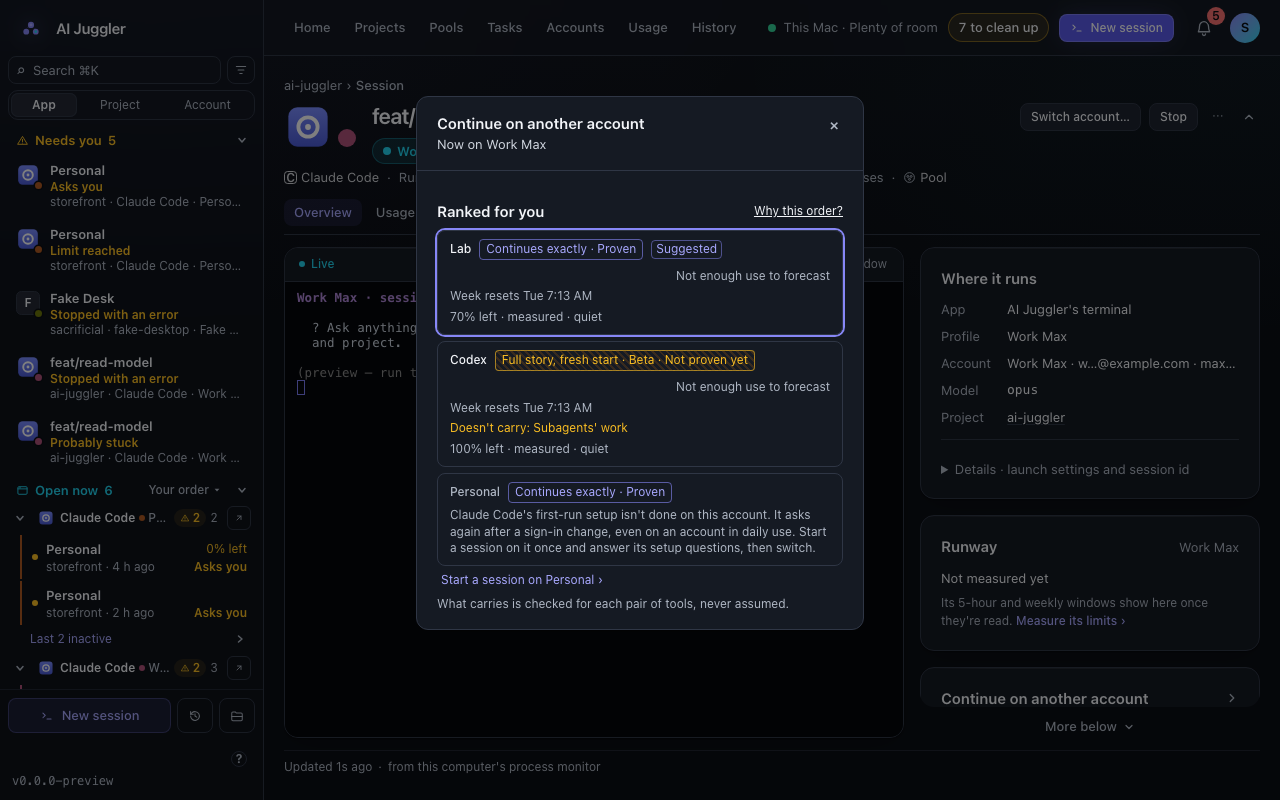
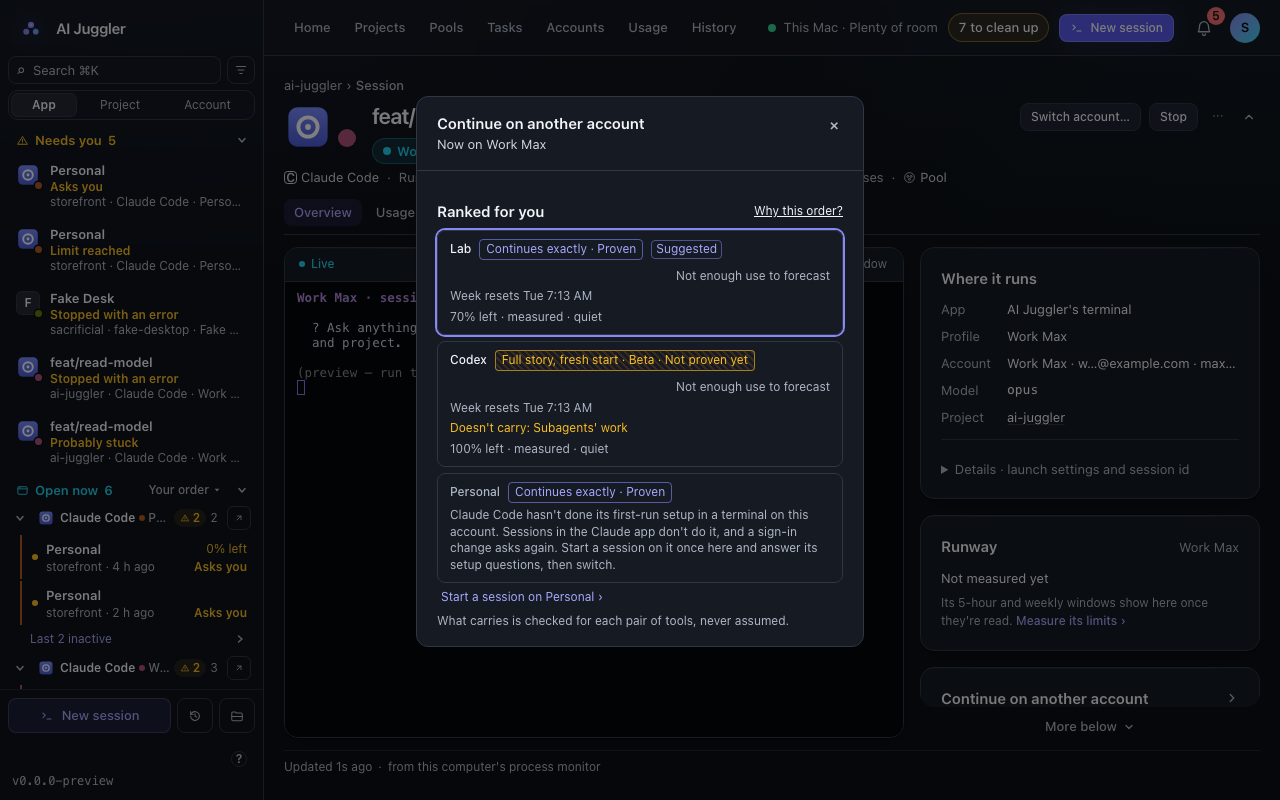
docs(0.3.4): notes and walk for D-64 and the switch fix; the setup words name the Claude app
The walk on real data found why the maintainer's accounts read "not set
up": they're used every day through the Claude app's Code tab, which runs
Claude Code without its terminal first run, so a switch into the terminal
would open on its setup questions. The words now say so. Release notes,
CHANGELOG and the walk record cover D-64's inactive apps and the switch
fix; switch-setup re-captured and its critique restamped.

Changed region(s): [[0.3125, 0.625, 0.6875, 0.8125]]

diff --git a/ui/src/components/switch-room.test.tsx b/ui/src/components/switch-room.test.tsx
@@ -103,7 +103,7 @@ describe("0.3.4 a switch: same tool first, never a target it would refuse", () =
   });
 
   it("a target whose setup isn't done is held back, never Suggested, with a way to finish it", async () => {
-    const words = "Claude Code's first-run setup isn't done on this account. It asks again after a sign-in change, even on an account in daily use. Start a session on it once and answer its setup questions, then switch.";
+    const words = "Claude Code hasn't done its first-run setup in a terminal on this account. Sessions in the Claude app don't do it, and a sign-in change asks again. Start a session on it once here and answer its setup questions, then switch.";
     vi.spyOn(setup, "switchSetupCheck").mockResolvedValue({ from: "Work", to: "x", already_there: 0, offers: [] });
     vi.spyOn(bridge, "switchTargets").mockResolvedValue([target("p", "personal-max", { filtered_reason: words, setup_needed: true }), target("d", "Default")]);
     const asked = vi.fn();

diff --git a/ui/tests/visual/accounts-gallery.spec.ts b/ui/tests/visual/accounts-gallery.spec.ts
@@ -363,7 +363,7 @@ const shown = (account: string, left: number) => ({
   credits: null,
 });
 const SETUP_WORDS =
-  "Claude Code's first-run setup isn't done on this account. It asks again after a sign-in change, even on an account in daily use. Start a session on it once and answer its setup questions, then switch.";
+  "Claude Code hasn't done its first-run setup in a terminal on this account. Sessions in the Claude app don't do it, and a sign-in change asks again. Start a session on it once here and answer its setup questions, then switch.";
 const SETUP_TARGETS = [
   switchTarget("codex-work", "Codex", "codex", ["100% left · measured", "quiet"]),
   switchTarget("claude-lab", "Lab", "claude-code", ["70% left · measured", "quiet"]),

diff --git a/crates/juggler-adapters/src/claude_code.rs b/crates/juggler-adapters/src/claude_code.rs
@@ -1165,10 +1165,11 @@ pub fn claude_state_file(dir: &Path) -> PathBuf {
 /// 0.3.2: Claude Code launches into `dir` only once it can read its state
 /// file and projects, and its first-run setup is done there
 /// (`hasCompletedOnboarding`); otherwise `--resume` opens on the setup
-/// screen, not the conversation (the maintainer's walk). 0.3.4: Claude
-/// Code clears that flag when the account's sign-in changes, so an
-/// account in daily use can need it again; the words say so, and a state
-/// file it can't parse says that instead.
+/// screen, not the conversation (the maintainer's walk). 0.3.4: an
+/// account used every day through the Claude app's Code tab never has it
+/// (the app runs Claude Code without its first run), and a sign-in change
+/// clears it; the words say so, and a state file it can't parse says that
+/// instead.
 ///
 /// # Errors
 ///
@@ -1182,7 +1183,7 @@ pub fn launch_ready_in(
     probe_read(&dir.join("projects"))?;
     let first_run = || {
         NotReady::NotSetUp(
-            "Claude Code's first-run setup isn't done on this account. It asks again after a sign-in change, even on an account in daily use. Start a session on it once and answer its setup questions, then switch."
+            "Claude Code hasn't done its first-run setup in a terminal on this account. Sessions in the Claude app don't do it, and a sign-in change asks again. Start a session on it once here and answer its setup questions, then switch."
                 .to_owned(),
         )
     };

diff --git a/docs/releases/0.3.4.md b/docs/releases/0.3.4.md
@@ -1,8 +1,12 @@
-AI Juggler 0.3.4 shows a session's conversation the way the tools' own apps do, puts its subagents one click away, and makes switching pages steady.
+AI Juggler 0.3.4 shows a session's conversation the way the tools' own apps do, puts its subagents one click away, keeps every app one click from starting, makes switching pages steady, and never suggests a switch that can't work.
 
 ## New
 
 - **Switch to a subagent's conversation from the session's own.** On a session's Overview, a column on the left lists what the tools' own apps list with it: **This session** first, then the subagents **Running** now, the sessions it **Started from here** (from the Claude app's own record, as its sidebar nests them), and **Done**, folded, with the latest that ended. One click shows that conversation in place; **Esc** or **Back** returns. The session's terminal stays exactly as it was meanwhile. The column shows only when there's something besides the conversation, and the **Subagents** tab stays the full list.
+- **Apps that aren't running stay in the rail.** Grouped by **App**, the rail now lists **Inactive apps** after Open now: every desktop app and profile AI Juggler has seen, and every Claude Code or Codex folder you've used recently, most recently used first. Each has one button: **Start** an app that quit, **Bring forward** one running with nothing open, or **New session** on a CLI app's folder. Its right-click menu also turns **Keep alive** on. An app that quits overnight no longer disappears.
+- **An app's past sessions sit under it.** Under each app, **Last 3 inactive** shows its most recent sessions that aren't open, in place. An inactive app shows its own with one click. The full list is in History (and on the app's own page in 0.4).
+- **Home shows your closed apps too.** Your apps gives every app or profile that isn't running a tile with **Start**, after the running ones, not only those kept alive.
+- **New session from an app.** A Claude Code or Codex folder's header menu in the rail has **New session**, opening on that folder.
 
 ## Improved
 
@@ -10,10 +14,13 @@ AI Juggler 0.3.4 shows a session's conversation the way the tools' own apps do, 
 
 - **A conversation reads like the app's own window.** Each finished turn shows your message, one row for its work, then the reply. The row says how long it took and what it did, such as "Worked for 4 min · Ran 3 commands, edited a file · 2 notes". The notes written between steps and the steps themselves are one click away, as written. While a session works, its latest turn stays open as it goes. The Claude app and ChatGPT's Codex show a turn the same way.
 - **Dark and easy to read.** In the dark theme a conversation sits on a near-black, neutral surface, not white text on blue-grey. In the light theme it's plain white. This applies to a session's conversation and to a subagent's.
+- **Switching suggests the same tool first.** While an account of the session's own tool has room, it's the one suggested. Other tools come after, even with more room left.
 - **The question is the reply's.** When a session asks you something, the card at the bottom quotes the question in its reply, never one from the notes it wrote while working.
 
 ## Fixed
 
+- **A switch is never offered where it would fail.** Continue on another account could call an account "Ready", then the switch stopped with "Claude Code hasn't been set up on this account yet". A switch continues the conversation in Claude Code in a terminal, and that asks its first-run questions once per account. Sessions in the Claude app don't answer them, so an account you use every day there can still need it (a sign-in change asks again, too). The list now runs the same check first: such an account is held back with why, never suggested, and offers **Start a session on it**, to answer those questions once.
+- **"23 inactive" said which.** Home now says "23 inactive sessions", and the link goes to the rail's Inactive apps. Grouped by App, the rail's "Also:" line no longer lists sessions from all over the place.
 - **The Subagents tab no longer opens on an empty list.** It opens on **Running** when something runs and on **All** otherwise, decided each time you open the tab. Before, it decided when the page opened and could still show "Nothing is running now" long after everything had finished.
 - **Its counts add up.** The summary now says how many failed, how many were stopped and how many have no recorded end. Together these make up **Needs attention**. Before, "18 failed" sat beside "Needs attention 19" with nothing saying what the 19th was.
 - **Subagents with no type can be found.** **Type** offers **No type recorded** when some have none.
@@ -21,5 +28,7 @@ AI Juggler 0.3.4 shows a session's conversation the way the tools' own apps do, 
 
 ## Known issues
 
-- Clicking an app's name in the rail's **App** grouping opens its folder's page, titled Account. The app's own page, with only its sessions, comes in 0.4.
+- Clicking an app's name in the rail's **App** grouping opens its folder's page, titled Account. The app's own page, with only its sessions, comes in 0.4, with an **Apps** section beside Accounts.
+- Settings › Desktop apps and a few other screens still say "Claude · Work" where the rail and Home say "Claude app · Work". They follow in 0.4.
+- An app that quit is listed only once AI Juggler has seen it running. A Claude app profile never opened since AI Juggler was installed shows in 0.4's Apps.
 - A session it started shows in the list only while its app is open (the app's own record is read from its running window, as its sidebar is).

diff --git a/docs/qa/evidence/_gallery/68-accounts/critique.md b/docs/qa/evidence/_gallery/68-accounts/critique.md
@@ -1,4 +1,4 @@
-<!-- captures: ad278388699b -->
+<!-- captures: c1880e1386b4 -->
 # 68-accounts: Accounts, Usage, the limit decision, and an account on its credits
 
 Design critique (D-57, AJ-E2814). Written at 0.3.2 for the four new captures of the maintainer's report: a Codex account whose week is used up while its pre-bought credits carry the work on. Before 0.3.2 it was called "out of room". The family's other captures were not re-taken this round, and this critique doesn't judge them.
@@ -50,6 +50,6 @@ The credits work reads well in its new home. In switch-credits the list sits in 
 
 One new capture, switch-setup (dark, light), from the maintainer's report. personal-max read "Ready: same tools set up", then the switch refused it ("hasn't been set up"). Codex was also suggested over a Claude account with room. The family's other captures weren't re-taken.
 
-**switch-setup.** The same "Continue on another account · Now on Work Max" dialog. Lab (70% left, the session's own tool) is first, with the violet Suggested outline. Codex has 100% left but is second, with its amber Beta badge and "Doesn't carry: Subagents' work". Personal is last and held back. Its card keeps the "Continues exactly · Proven" badge, then the reason in three plain lines: setup isn't done, it comes back after a sign-in change even on an account in daily use, and what to do. Under the card, "Start a session on Personal ›" in the link colour opens New session already on that account. The card is greyed only by its muted name, never red: nothing is wrong with the account, it needs one step. Axe is clean in both themes.
+**switch-setup.** The same "Continue on another account · Now on Work Max" dialog. Lab (70% left, the session's own tool) is first, with the violet Suggested outline. Codex has 100% left but is second, with its amber Beta badge and "Doesn't carry: Subagents' work". Personal is last and held back. Its card keeps the "Continues exactly · Proven" badge, then the reason in three plain lines: the terminal Claude Code's first-run setup isn't done there, sessions in the Claude app don't do it (the maintainer's case: accounts used every day through the Claude app), and what to do. Under the card, "Start a session on Personal ›" in the link colour opens New session already on that account. The card is greyed only by its muted name, never red: nothing is wrong with the account, it needs one step. Axe is clean in both themes.
 
 Weak: the link sits under the card rather than inside it, because the card is the whole row's button. It reads as the card's own next step, but a row whose only use is that link could carry it inside.

diff --git a/docs/qa/0.3.4-walk.md b/docs/qa/0.3.4-walk.md
@@ -27,3 +27,20 @@
 |---|---|---|---|---|
 | Switcher | 5 | 5 | 5 | 4: the conversation narrows to about 415 px at 1280 while the list shows |
 | Page switching | 5 | 5 | 5 | 4: History's first open still shifts a little |
+
+## D-64 and the switch fix, on real data (2026-11-01)
+
+A fresh Dev data folder (`just dev-bridge-data`: 7 setups, "Account A–G"), the same read-only bridge.
+
+| Step | Result |
+|---|---|
+| The rail grouped by App | Open now 7: ChatGPT and six Claude app profiles, one session each. b-mia ends with **Last 1 inactive**. Then **Inactive apps · 6**: Codex · Account G (2 d ago · 63 sessions), then Claude Code on Accounts E, C, B, F and A, most recent first. "Also:" reads only "History ›". |
+| Last 1 inactive | Unfolds b-mia's ended session under it, in place; again folds it. |
+| An inactive app's fold | Codex · Account G shows its last 3 sessions under it, newest first. |
+| Speed (dev build, click to redraw, MutationObserver, 3 rounds each) | 13–14 ms for both. |
+| Home | "7 open · 23 inactive sessions". |
+| Continue on another account, from personal-max's session (Account F) | Accounts C and E offered ("Needs 1 thing, set up as it switches"), Codex · Account G cross-tool. **Accounts A, B and D held back** with why and "Start a session on Account … ›". B is a setup used every day through the Claude app's Code tab: the app runs Claude Code without its terminal first run, so a switch into the terminal would open on its setup questions. That is the maintainer's report. The words now say so ("Sessions in the Claude app don't do it"). |
+
+Not walked: a closed desktop app's Start. A fresh Dev data folder remembers only the apps it has seen running, and closing one of the maintainer's apps to see it isn't a read. Start is 0.3.3's `places_open`, covered by its tests; the rail and Home buttons call it, covered by `rail-idle-app.test.tsx` and `keep-alive.test.tsx`.
+
+Known from the walk: a session older than the app's record (kept since 0.3.3) is listed under the Claude Code folder it ran on, not the Claude app profile it ran in. The App page (0.4) reads the Claude app's own session record.

diff --git a/CHANGELOG.md b/CHANGELOG.md
@@ -14,8 +14,21 @@ and this project adheres to [Semantic Versioning](https://semver.org/spec/v2.0.0
   (`conversations_started`, from the Claude app's `spawnedFrom`) and the
   ended ones, each one click to its conversation in place; the own pane is
   never unmounted (a terminal never rebuilt).
+- **Inactive apps in the rail** (D-64, docs/releases/0.3.4.md): grouped by
+  App, an open app's sessions that aren't open sit under it behind "Last
+  3 inactive" (a desktop app's from `KnownPlaceInfo.recent`); after Open
+  now, "Inactive apps" lists every remembered desktop app and every CLI
+  app with recent sessions and nothing open, with Start, Bring forward or
+  New session (`aij:new-session { accountId }`), Keep alive in its menu.
+  Home gives every remembered closed app a Start tile. A CLI app's header
+  menu has New session.
 
 ### Changed (0.3.4)
+
+- **Switch targets prefer the session's own tool** among those with room
+  (`rankByRoom`'s `preferred`).
+- **"Also:"** no longer lists inactive sessions grouped by App; Home says
+  "n inactive sessions".
 
 - **Page switching** (lib/shared-read, lib/scroll-memory): kept answers
   painted first and read again behind, scroll kept per page and tab,
@@ -31,6 +44,14 @@ and this project adheres to [Semantic Versioning](https://semver.org/spec/v2.0.0
 
 ### Fixed (0.3.4)
 
+- **A switch target the switch would refuse is held back**:
+  `switch_targets` runs the target tool's launch check
+  (`handover::access::launch_blocker`) and sets `filtered_reason` and
+  `setup_needed`; the words say a Claude app session doesn't do the
+  terminal Claude Code's first run (and a sign-in change asks again), and
+  an unparsable settings file says so instead.
+- **The shell no longer scrolls under a long rail**: screen-reader names
+  in rail rows and headers are positioned by their own buttons.
 - **The Subagents tab**: opens on Running only when something runs (chosen
   each time it's shown, AJ-E2810 req 2); the summary names stopped and
   "with no recorded end" beside failed; "No type recorded" can be picked;
